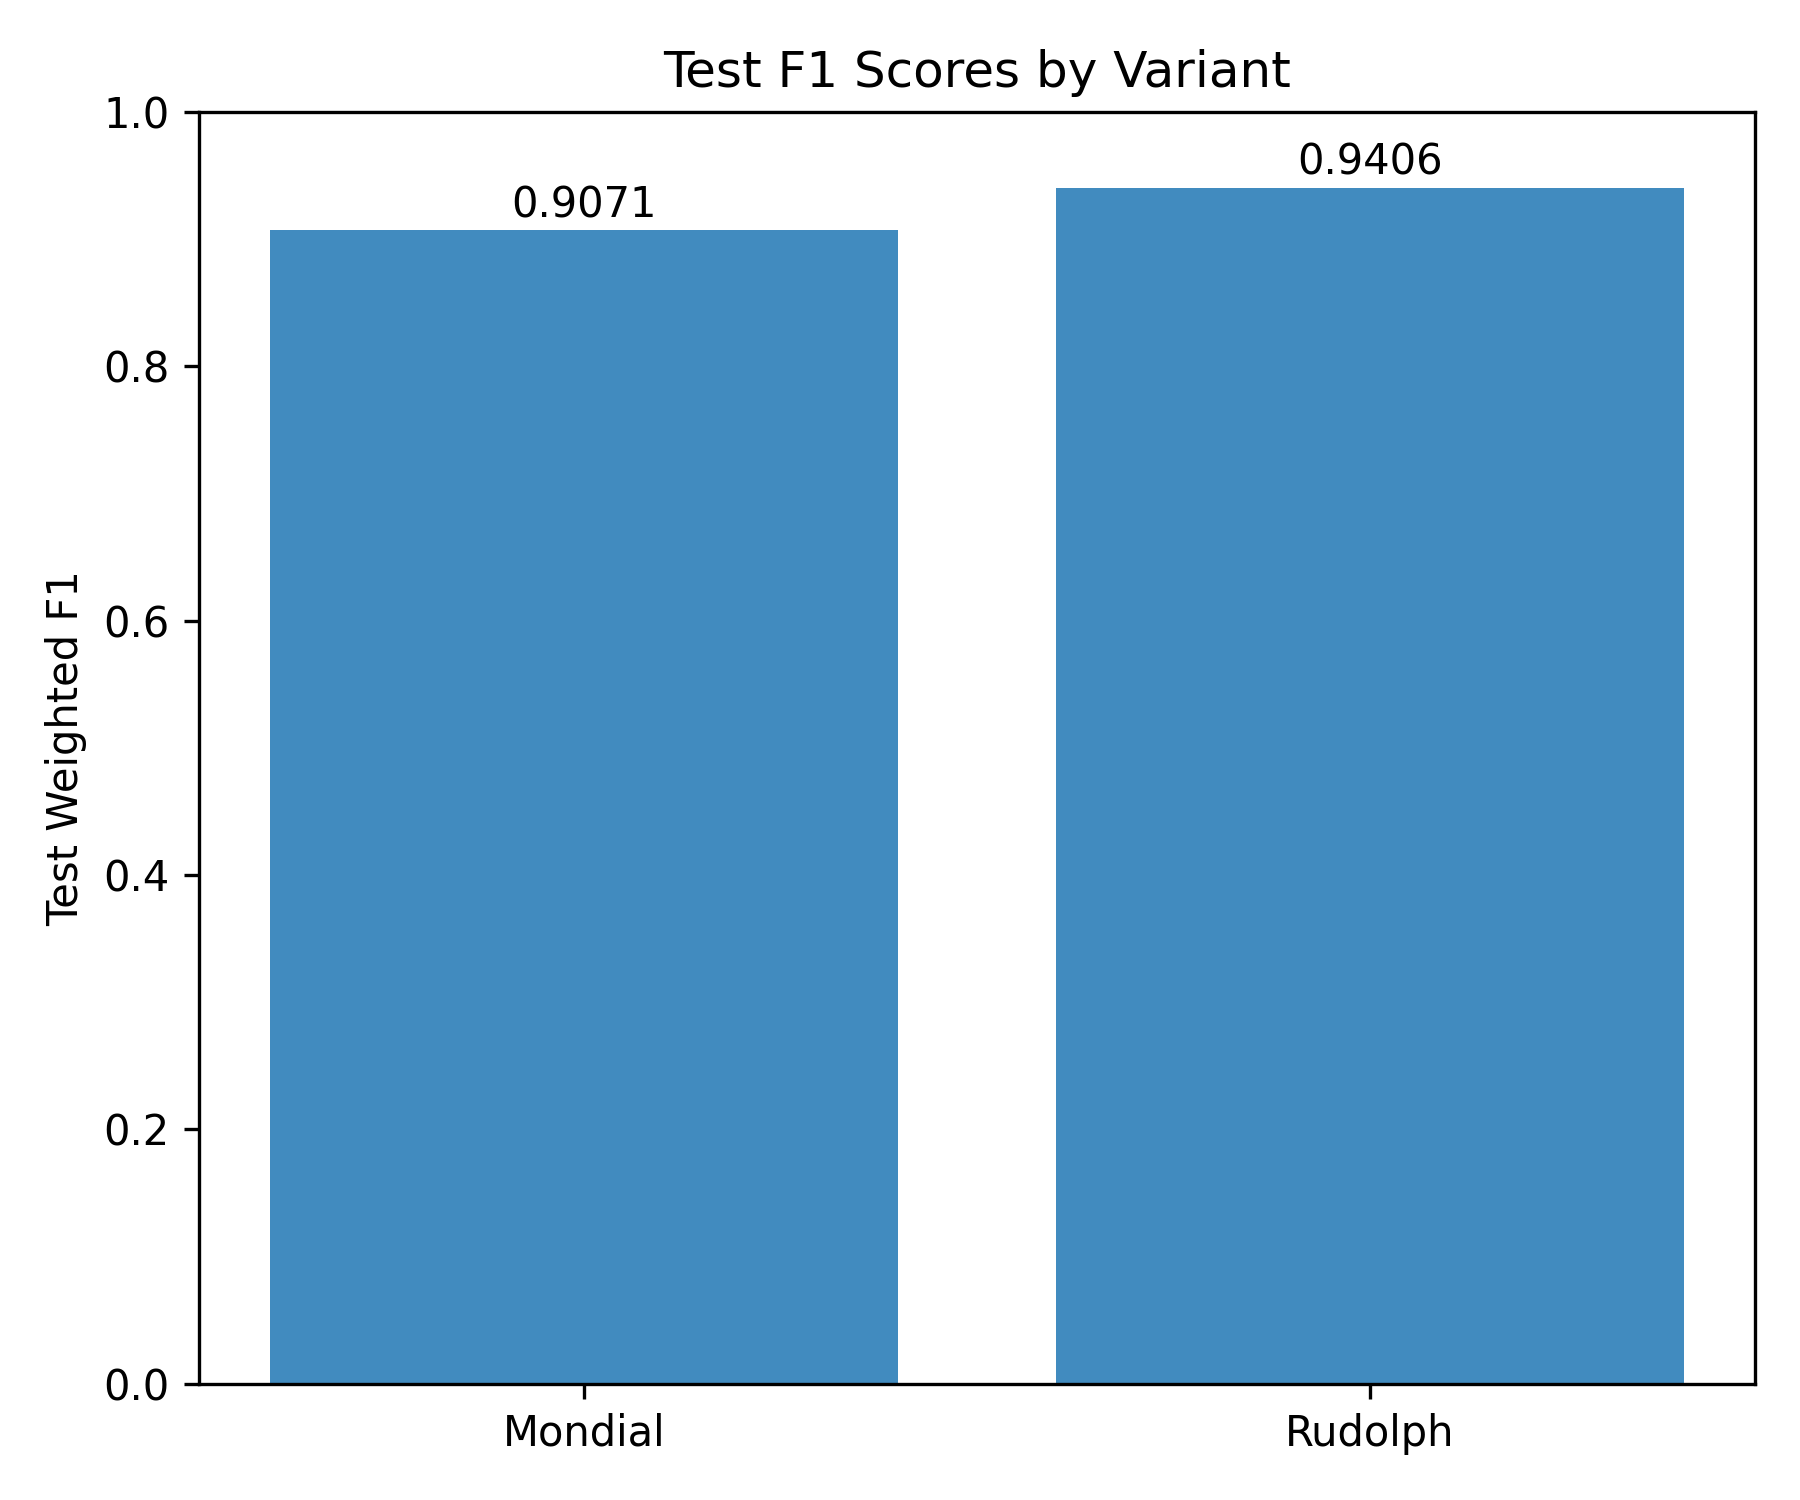
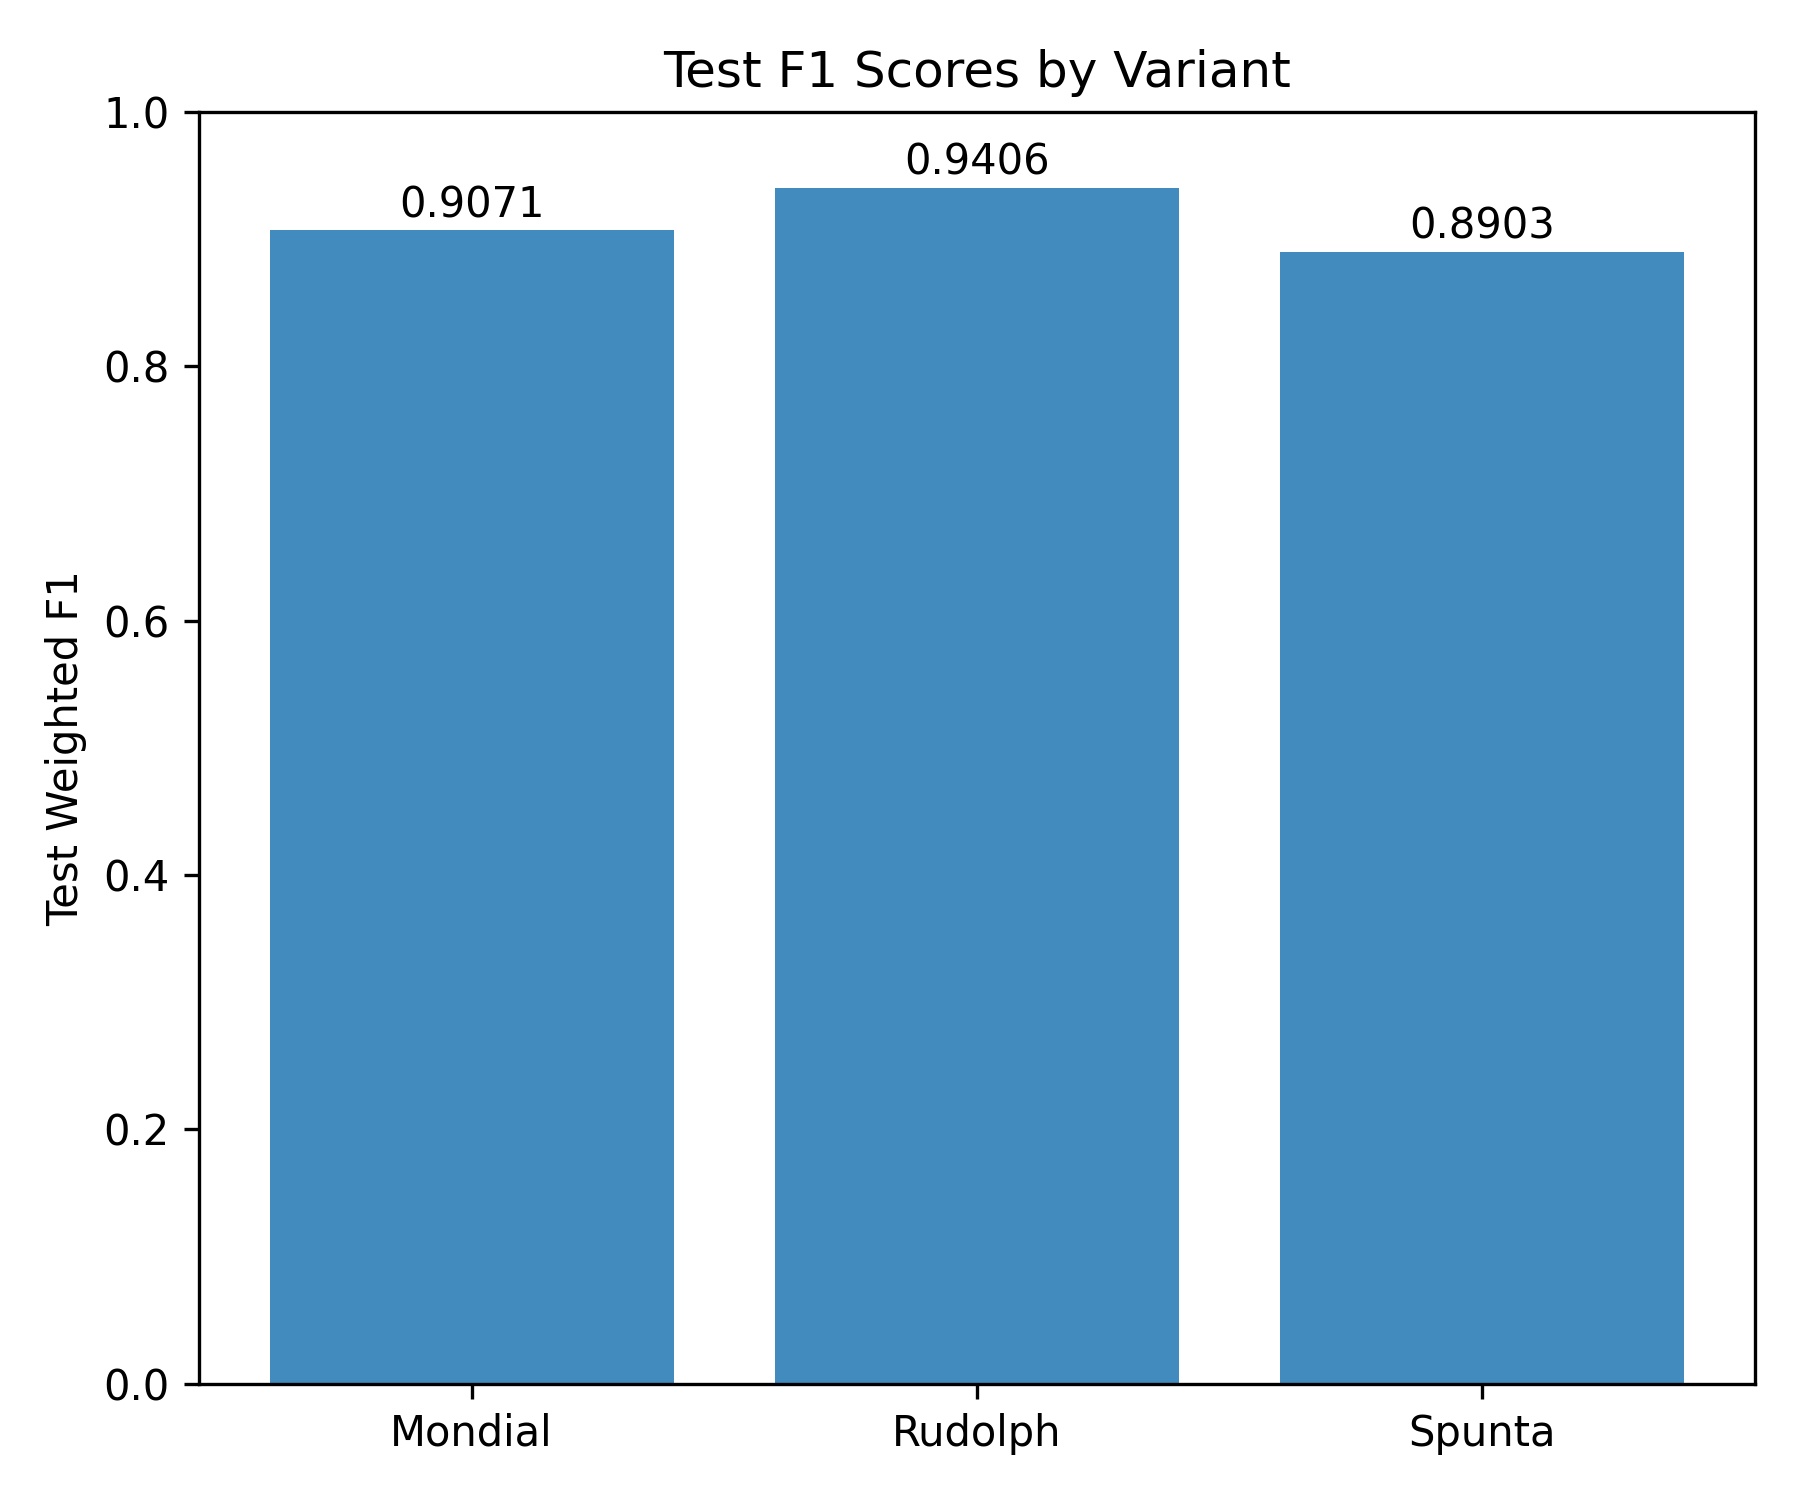
added spunta plot

diff --git a/Feature_Extraction/plot_color_channel_results.py b/Feature_Extraction/plot_color_channel_results.py
@@ -10,8 +10,6 @@ def plot_ranked_channel_combos(variants, pkl_dir="Channel_Combo_Results", output
     for variant in variants:
         pkl_file = os.path.join(pkl_dir, f"{variant}_channel_results.pkl")
 
-
-        print(f"Loading {pkl_file} ...")
         with open(pkl_file, "rb") as f:
             results = pickle.load(f)
 
@@ -83,13 +81,13 @@ def plot_test_f1_scores(test_f1_dict, output_dir="Plots"):
 
 if __name__ == "__main__":
 
-    variants = ["Rudolph", "Mondial"]
+    variants = ["Rudolph", "Mondial", "Spunta"]
     plot_ranked_channel_combos(variants)
 
     test_f1_scores = {
         "Mondial": 0.9071,
         "Rudolph": 0.9406,
-        # "Spunta": 0.xxx,
+        "Spunta": 0.8903,
         # "Fontane": 0.xxx
     }
 
